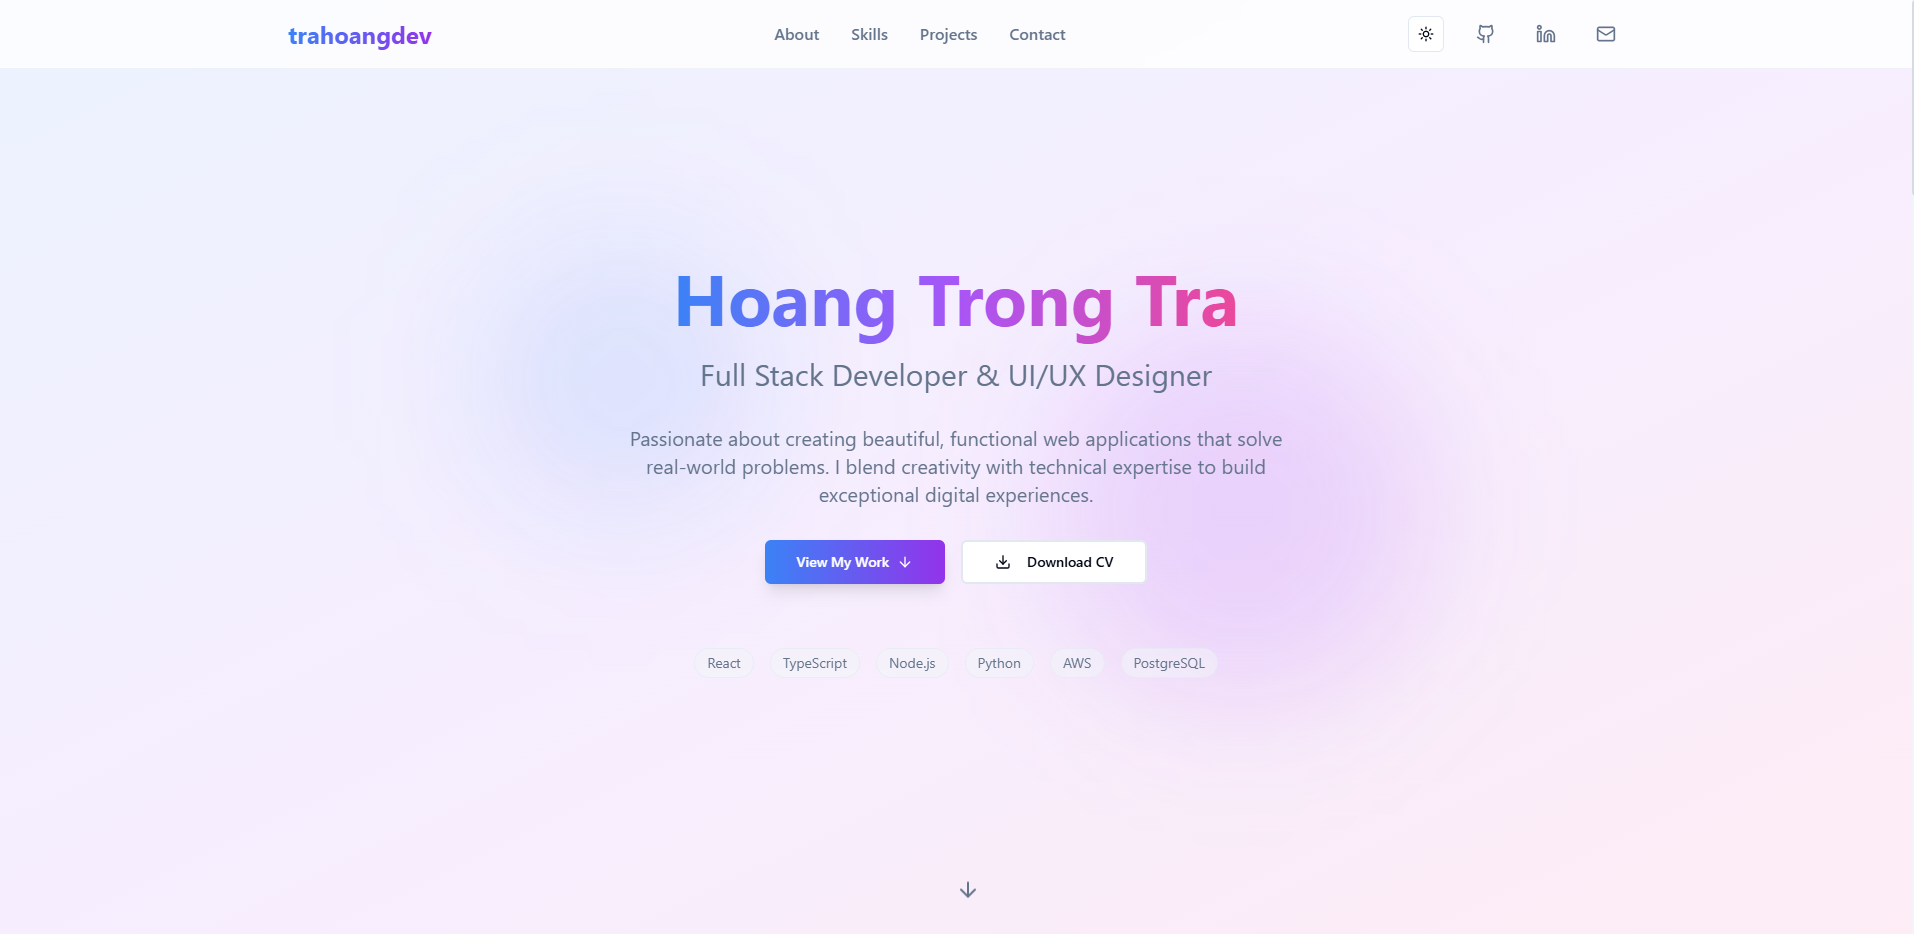
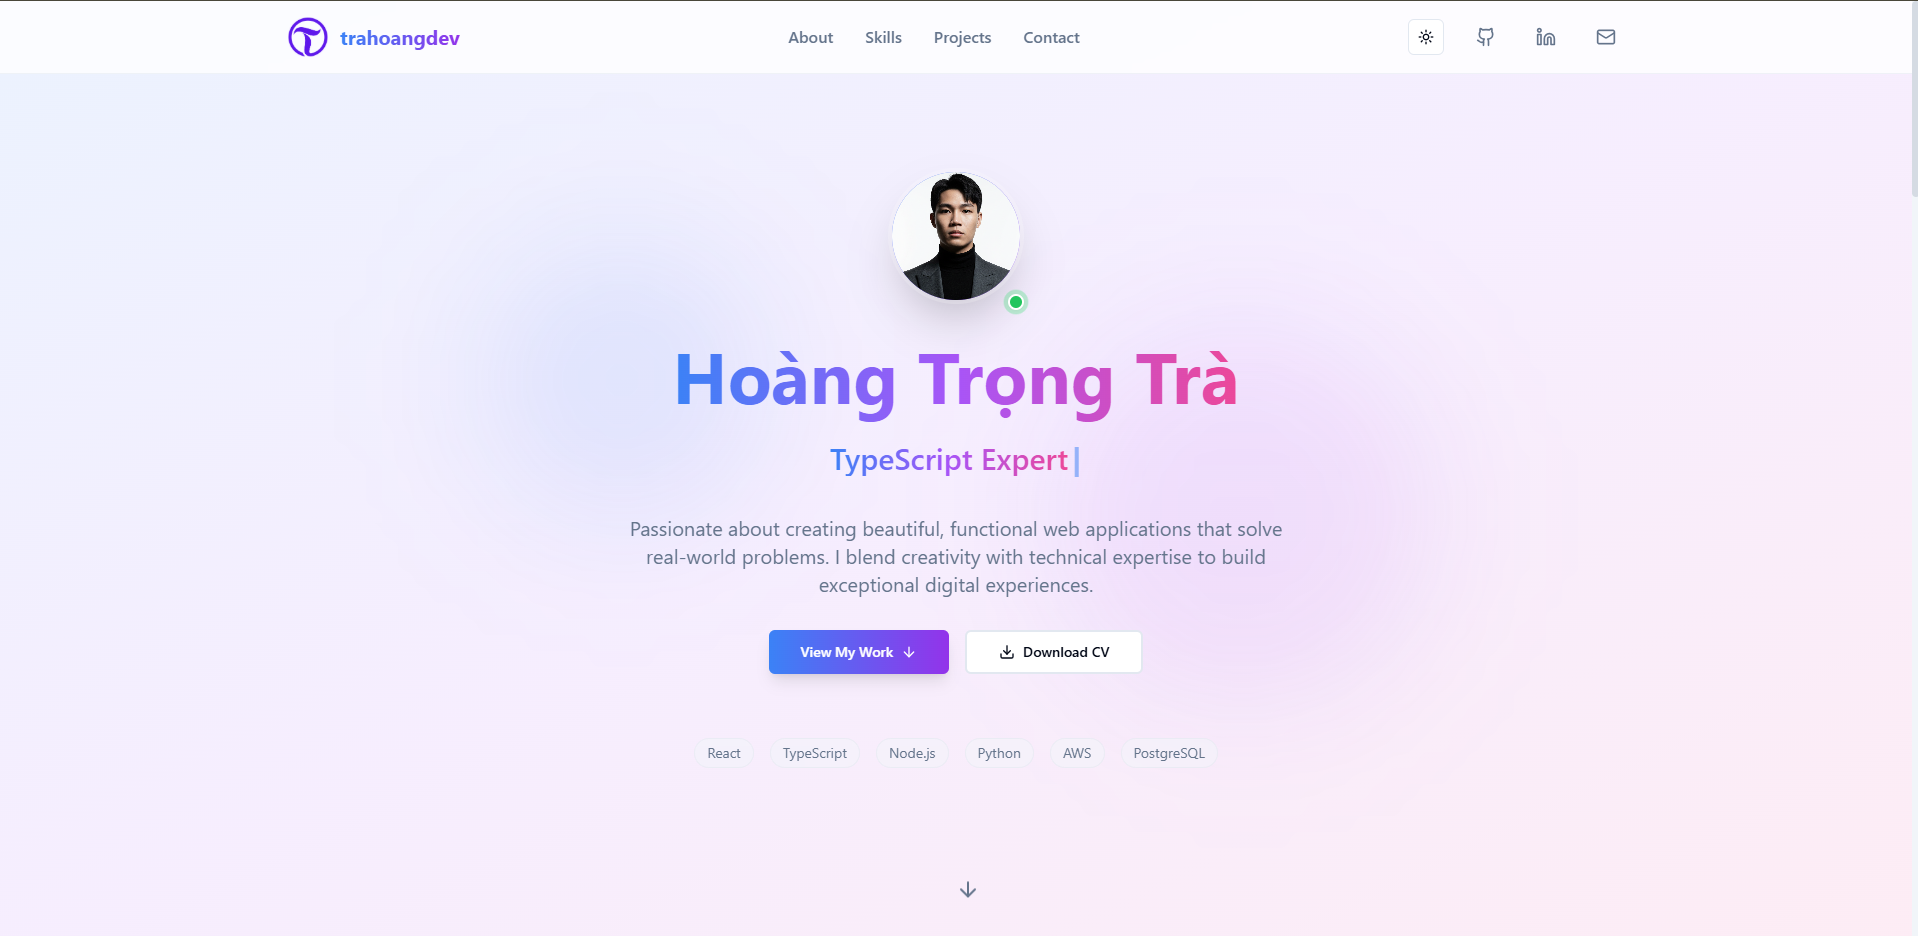
feat: update new project, fix UI/UX

diff --git a/src/components/sections/Hero.tsx b/src/components/sections/Hero.tsx
@@ -3,9 +3,44 @@ import { ArrowDown, Download } from 'lucide-react';
 import { Button } from '@/components/ui/button';
 import { Avatar } from '@/components/ui/avatar';
 import { useCurrentTheme } from '@/hooks/use-theme';
+import { useState, useEffect } from 'react';
 
 const Hero = () => {
   const currentTheme = useCurrentTheme();
+  const [displayedText, setDisplayedText] = useState('');
+  const [currentIndex, setCurrentIndex] = useState(0);
+  const [isDeleting, setIsDeleting] = useState(false);
+
+  useEffect(() => {
+    const texts = [
+      'Full Stack Developer',
+      'React Specialist',
+      'TypeScript Expert',
+      'UI/UX Enthusiast',
+      'Problem Solver'
+    ];
+    
+    const currentText = texts[currentIndex];
+    
+    const timeout = setTimeout(() => {
+      if (!isDeleting) {
+        if (displayedText.length < currentText.length) {
+          setDisplayedText(currentText.slice(0, displayedText.length + 1));
+        } else {
+          setTimeout(() => setIsDeleting(true), 3000); // Tăng thời gian hiển thị
+        }
+      } else {
+        if (displayedText.length > 0) {
+          setDisplayedText(displayedText.slice(0, -1));
+        } else {
+          setIsDeleting(false);
+          setCurrentIndex((prev) => (prev + 1) % texts.length);
+        }
+      }
+    }, isDeleting ? 30 : 80); // Tăng tốc độ gõ và xóa
+
+    return () => clearTimeout(timeout);
+  }, [displayedText, currentIndex, isDeleting]);
 
   return (
     <section className="min-h-screen flex items-center justify-center relative overflow-hidden">
@@ -33,7 +68,7 @@ const Hero = () => {
             <div className="flex justify-center mb-8">
               <Avatar
                 src="/avatar.png"
-                alt="Tra Hoang Trong"
+                alt="Hoàng Trọng Trà"
                 size="2xl"
                 fallback="HT"
                 className="ring-4 ring-white/20 shadow-2xl hover:scale-105 transition-transform duration-300"
@@ -42,11 +77,14 @@ const Hero = () => {
             
             <h1 className="text-5xl md:text-7xl font-bold mb-6">
               <span className="bg-gradient-to-r from-blue-500 via-purple-500 to-pink-500 bg-clip-text text-transparent">
-                Tra Hoang Trong 
+                Hoàng Trọng Trà 
               </span>
             </h1>
-            <h2 className="text-2xl md:text-3xl text-muted-foreground mb-8">
-              Full Stack Developer
+            <h2 className="text-2xl md:text-3xl text-muted-foreground mb-8 min-h-[3rem] flex items-center justify-center">
+              <span className="bg-gradient-to-r from-blue-500 via-purple-500 to-pink-500 bg-clip-text text-transparent font-medium">
+                {displayedText}
+              </span>
+              <span className="animate-pulse text-blue-500 ml-1 font-bold text-2xl md:text-3xl opacity-80 animate-blink">|</span>
             </h2>
             <p className="text-lg md:text-xl text-muted-foreground max-w-2xl mx-auto leading-relaxed">
               Passionate about creating beautiful, functional web applications that solve real-world problems. 

diff --git a/src/data/projects.ts b/src/data/projects.ts
@@ -139,8 +139,8 @@ export const projectDetails: ProjectDetail[] = [
     longDescription: 'A modern, responsive portfolio website showcasing my work and skills. Built with React, TypeScript, and Tailwind CSS, it features a sophisticated theme system, smooth animations, and optimized performance. The site includes interactive project showcases, contact forms, and a mobile-first design approach.',
     image: '/images/project-4.png',
     screenshots: [
-      '/images/project-4.png',
-      '/images/project-1.png'
+      '/images/project-4-2.png',
+      '/images/project-4-3.png'
     ],
     technologies: ['React.js', 'TypeScript', 'Tailwind CSS', 'Framer Motion', 'Vite', 'shadcn/ui'],
     category: 'frontend',
@@ -174,6 +174,51 @@ export const projectDetails: ProjectDetail[] = [
     status: 'completed',
     startDate: '2025-04-22',
     endDate: '2025-06-25'
+  },
+  {
+    id: 5,
+    title: 'Landing Page for Zen Tea',
+    shortDescription: 'A responsive landing page for Zen Tea built with React.js and Tailwind CSS, featuring dark mode and animations.',
+    longDescription: 'A modern, responsive portfolio website showcasing my work and skills. Built with React, TypeScript, and Tailwind CSS, it features a sophisticated theme system, smooth animations, and optimized performance. The site includes interactive project showcases, contact forms, and a mobile-first design approach.',
+    image: '/images/project-5-2.png',
+    screenshots: [
+      '/images/project-5-4.png',
+      '/images/project-5-3.png'
+    ],
+    technologies: ['React.js', 'TypeScript', 'Tailwind CSS', 'Framer Motion', 'Vite', 'shadcn/ui'],
+    category: 'frontend',
+    github: 'https://github.com/trahoangdev/zen-tea-landing',
+    live: 'https://zen-tea-landing.netlify.app/',
+    features: [
+      'Responsive design for all devices',
+      'Dark/Light/System theme modes',
+      'Smooth animations and transitions',
+      'Interactive project showcase',
+      'Contact form with validation',
+      'SEO optimization',
+      'Performance optimization',
+      'Accessibility compliance',
+      'Landing page for Zen Tea',
+      'Interactive Elements'
+    ],
+    challenges: [
+      'Creating smooth theme transitions',
+      'Optimizing performance for mobile devices',
+      'Implementing complex animations',
+      'Ensuring accessibility compliance'
+    ],
+    solutions: [
+      'Used CSS custom properties for theme switching',
+      'Implemented lazy loading and code splitting',
+      'Leveraged Framer Motion for smooth animations',
+      'Followed WCAG guidelines and ARIA standards'
+    ],
+    duration: '1 month',
+    teamSize: 1,
+    role: 'Frontend Developer',
+    status: 'completed',
+    startDate: '2025-10-07',
+    endDate: '2025-10-31'
   }
 ];
 

diff --git a/src/components/layout/Header.tsx b/src/components/layout/Header.tsx
@@ -61,7 +61,7 @@ const Header = () => {
   const socialLinks = [
     { icon: Github, href: 'https://github.com/trahoangdev', label: 'GitHub' },
     { icon: Linkedin, href: 'https://linkedin.com/in/trahoangdev', label: 'LinkedIn' },
-    { icon: Mail, href: 'mailto:contact@trahoangdev', label: 'Email' },
+    { icon: Mail, href: 'mailto: trahoangdev@gmail.com', label: 'Email' },
   ];
 
   const handleNavClick = (href: string) => {
@@ -103,10 +103,17 @@ const Header = () => {
             <div className="flex items-center">
               <a 
                 href="#" 
-                className="text-2xl font-bold bg-gradient-to-r from-blue-500 to-purple-600 bg-clip-text text-transparent hover:scale-105 transition-transform duration-200"
+                className="flex items-center hover:scale-105 transition-transform duration-200"
                 onClick={() => window.scrollTo({ top: 0, behavior: 'smooth' })}
               >
-                trahoangdev
+                <img 
+                  src="/logo/logo.png" 
+                  alt="trahoangdev logo" 
+                  className="h-10 w-10 object-contain"
+                />
+                <span className="ml-3 text-xl font-bold bg-gradient-to-r from-blue-500 to-purple-600 bg-clip-text text-transparent">
+                  trahoangdev
+                </span>
               </a>
             </div>
 
@@ -184,7 +191,16 @@ const Header = () => {
             <div className="flex flex-col h-full bg-card">
               {/* Header with close button */}
               <div className="flex items-center justify-between p-6 border-b border-border bg-card">
-                <span className="text-xl font-semibold text-foreground">Menu</span>
+                <div className="flex items-center space-x-3">
+                  <img 
+                    src="/logo/logo.png" 
+                    alt="trahoangdev logo" 
+                    className="h-6 w-6 object-contain"
+                  />
+                  <span className="text-lg font-bold bg-gradient-to-r from-blue-500 to-purple-600 bg-clip-text text-transparent">
+                    trahoangdev
+                  </span>
+                </div>
                 <button
                   onClick={() => setIsMenuOpen(false)}
                   className="p-2 rounded-lg hover:bg-muted transition-colors duration-200"

diff --git a/src/components/layout/Footer.tsx b/src/components/layout/Footer.tsx
@@ -7,7 +7,7 @@ const Footer = () => {
   const socialLinks = [
     { icon: Github, href: 'https://github.com/trahoangdev', label: 'GitHub' },
     { icon: Linkedin, href: 'https://linkedin.com/in/trahoangdev', label: 'LinkedIn' },
-    { icon: Mail, href: 'mailto:contact@trahoangdev', label: 'Email' }
+    { icon: Mail, href: 'mailto:trahoangdev@gmail.com', label: 'Email' }
   ];
 
   return (
@@ -16,9 +16,16 @@ const Footer = () => {
         <div className="max-w-6xl mx-auto">
           <div className="flex flex-col md:flex-row justify-between items-center">
             <div className="mb-6 md:mb-0">
-              <h3 className="text-2xl font-bold bg-gradient-to-r from-blue-500 to-purple-600 bg-clip-text text-transparent mb-2">
-                trahoangdev
-              </h3>
+              <div className="flex items-center mb-2">
+                <img 
+                  src="/logo/logo.png" 
+                  alt="trahoangdev logo" 
+                  className="h-8 w-8 object-contain mr-3"
+                />
+                <h3 className="text-2xl font-bold bg-gradient-to-r from-blue-500 to-purple-600 bg-clip-text text-transparent">
+                  trahoangdev
+                </h3>
+              </div>
               <p className="text-muted-foreground">
                 Building digital experiences with passion and precision
               </p>

diff --git a/index.html b/index.html
@@ -14,17 +14,18 @@
     <meta property="og:url" content="https://trahoangdev.com/" />
     <meta property="og:title" content="trahoangdev - Full Stack Developer" />
     <meta property="og:description" content="Personal portfolio showcasing modern web development projects and skills" />
-    <meta property="og:image" content="https://trahoangdev.com/og-image.jpg" />
+    <meta property="og:image" content="https://trahoangdev.com/logo/logo.png" />
 
     <!-- Twitter -->
     <meta name="twitter:card" content="summary_large_image" />
     <meta name="twitter:url" content="https://trahoangdev.com/" />
     <meta name="twitter:title" content="trahoangdev - Full Stack Developer" />
     <meta name="twitter:description" content="Personal portfolio showcasing modern web development projects and skills" />
-    <meta name="twitter:image" content="https://trahoangdev.com/og-image.jpg" />
+    <meta name="twitter:image" content="https://trahoangdev.com/logo/logo.png" />
     
     <!-- Favicon -->
-    <link rel="icon" href="/favicon.ico" type="image/x-icon">
+    <link rel="icon" href="/logo/logo.png" type="image/png">
+    <link rel="shortcut icon" href="/logo/logo.png" type="image/png">
     
     <!-- Preconnect to external domains for performance -->
     <link rel="preconnect" href="https://fonts.googleapis.com">

diff --git a/src/components/sections/About.tsx b/src/components/sections/About.tsx
@@ -37,7 +37,7 @@ const About = () => {
           <div className="grid lg:grid-cols-2 gap-12 items-center">
             <div className="space-y-6">
               <p className="text-lg leading-relaxed text-muted-foreground">
-                Hello! I'm Tra, a full-stack developer based in Ho Chi Minh City, Vietnam. I enjoy creating things that 
+                Hello! I'm Trà, a full-stack developer based in Ho Chi Minh City, Vietnam. I enjoy creating things that 
                 live on the internet, whether that be websites, applications, or anything in between.
               </p>
               <p className="text-lg leading-relaxed text-muted-foreground">

diff --git a/src/components/sections/Contact.tsx b/src/components/sections/Contact.tsx
@@ -34,14 +34,14 @@ const Contact = () => {
     {
       icon: Mail,
       title: 'Email',
-      value: 'contact@trahoangdev',
-      href: 'mailto:contact@trahoangdev'
+      value: 'trahoangdev@gmail.com',
+      href: 'mailto:trahoangdev@gmail.com'
     },
     {
       icon: Phone,
       title: 'Phone',
-      value: '+1 (555) 123-4567',
-      href: 'tel:+15551234567'
+      value: '(+84) 123 456 789',
+      href: 'tel:+84906888888'
     },
     {
       icon: MapPin,

diff --git a/README.md b/README.md
@@ -226,7 +226,7 @@ This project is licensed under the MIT License - see the [LICENSE](LICENSE) file
 ## 📞 Contact
 
 - **Website**: [trahoangdev](https://trahoangdev.com) 
-- **Email**: contact@trahoangdev
+- **Email**: trahoangdev@gmail.com
 - **GitHub**: [@hoangtrongtra-dev](https://github.com/trahoangdev)
 - **LinkedIn**: [trahoangdev](https://linkedin.com/in/trahoangdev)
 
